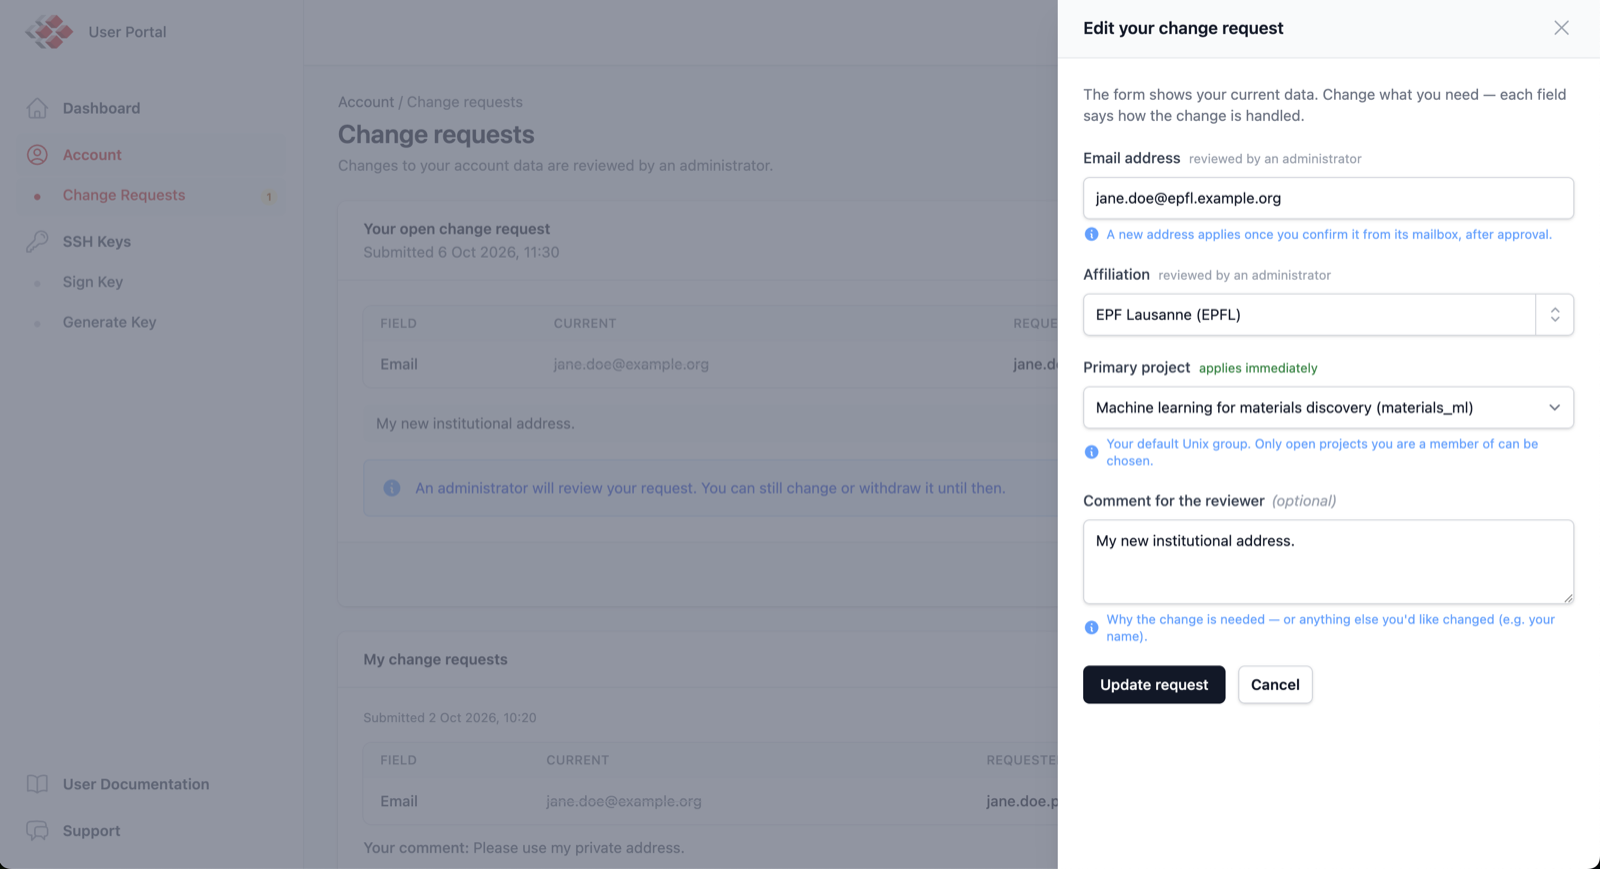
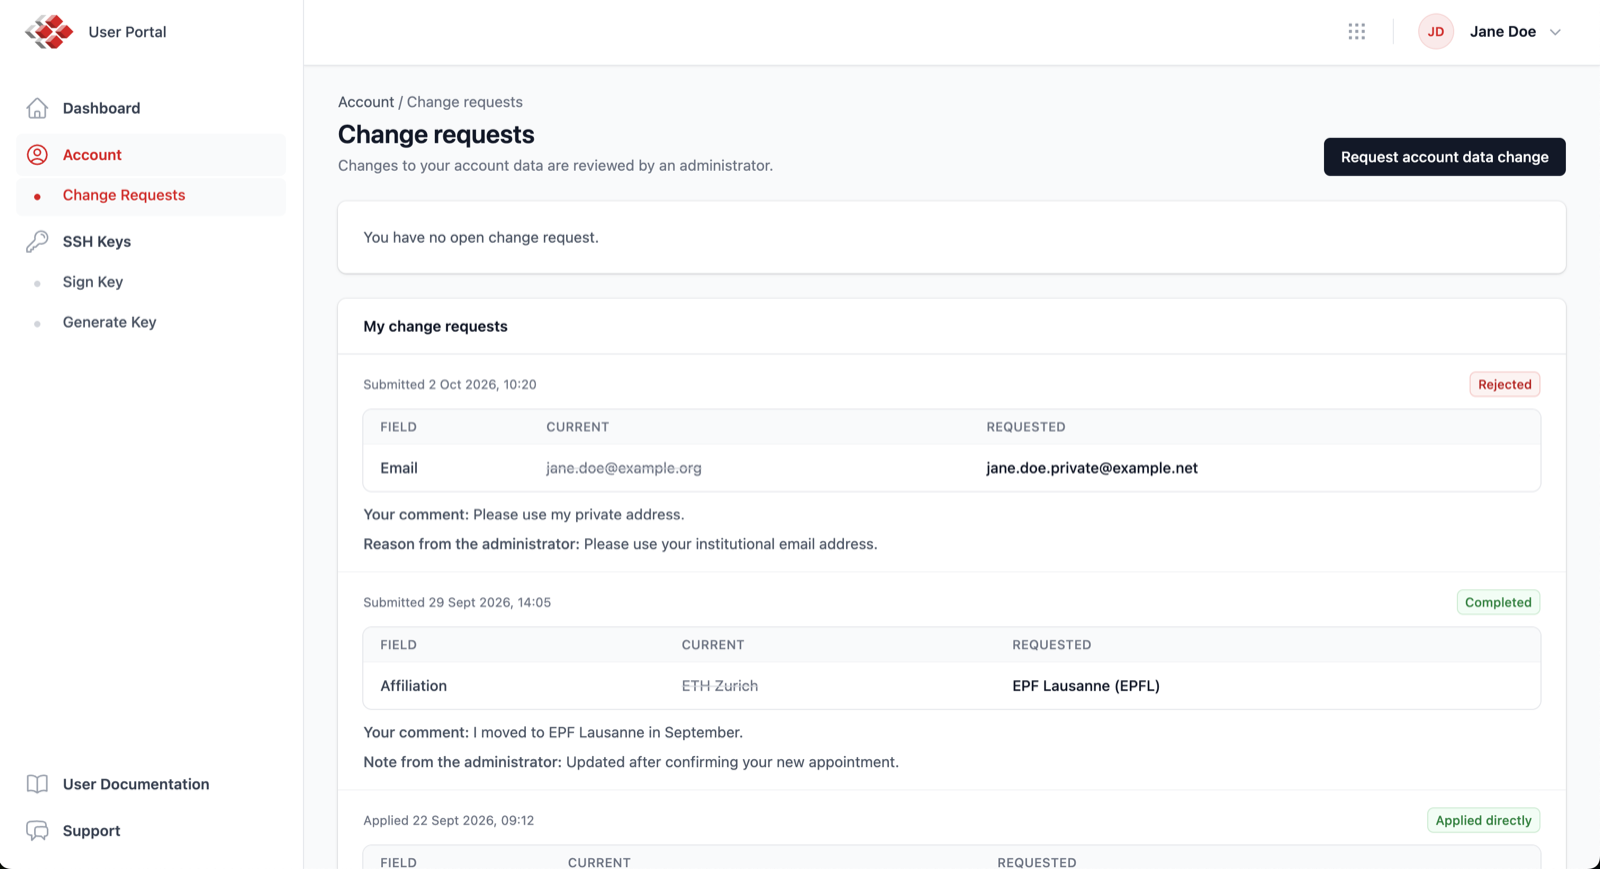
Use new-request screenshots on the account data page
Replace the two screenshots: the form now shows a new request (Request
account data change / Submit, not the edit view), and the change requests
page shows the history with comments, the administrator's reason / note and
the statuses. Mention that the request button is also on the Change Requests
page.

diff --git a/docs/accounts/account-change.md b/docs/accounts/account-change.md
@@ -22,7 +22,7 @@ To change any other account data, contact CSCS via the [Service Desk](https://su
 [](){#ref-account-change-request}
 ## Requesting a change
 
-On the **Account** page, click **Request account data change**.
+On the **Account** page, or on the **Change Requests** page, click **Request account data change**.
 The form shows your current data: change what you need and, if useful, add a comment for the reviewer.
 Each field says how its change is handled.
 
@@ -50,7 +50,7 @@ To see your requests, open **Change Requests** under **Account** in the menu, or
 The page shows your open request, which you can change (**Edit request**) or withdraw (**Withdraw request**) while it is pending, and all your past requests and changes.
 Each entry shows what was changed, your comment, and the reason or note from CSCS when a request was rejected or approved.
 
-![The change requests page with an open request and past requests](../images/access/account-change-requests.png)
+![The change requests page with past requests, comments and statuses](../images/access/account-change-requests.png)
 
 | Status | Meaning |
 |--------|---------|
